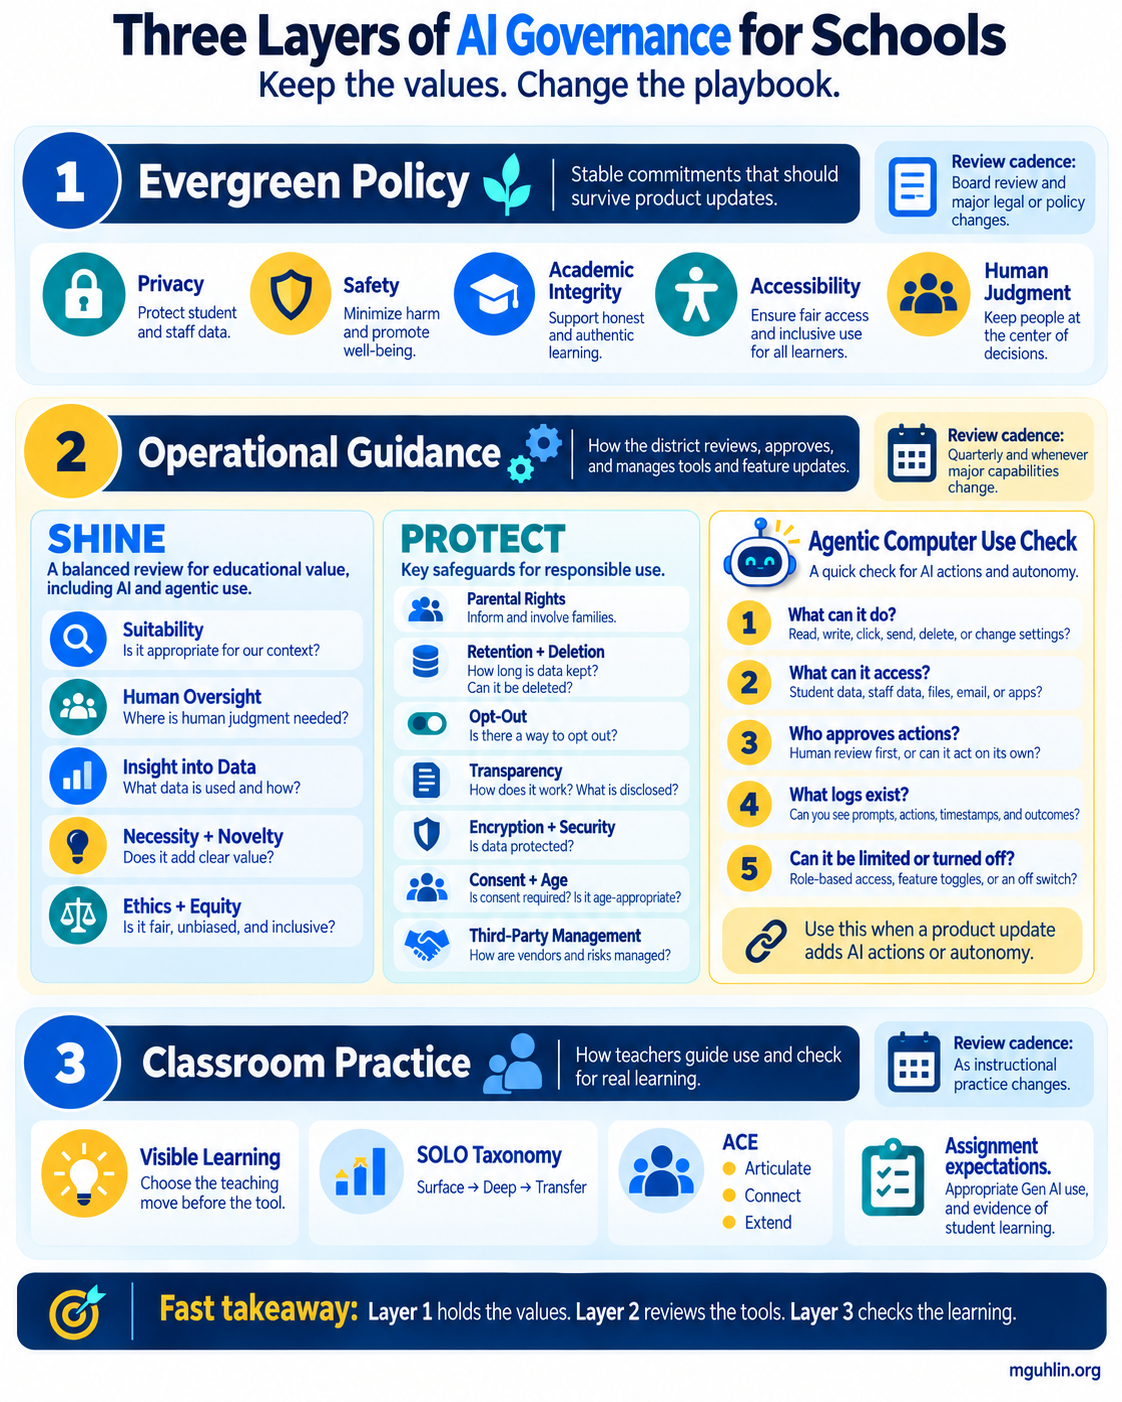
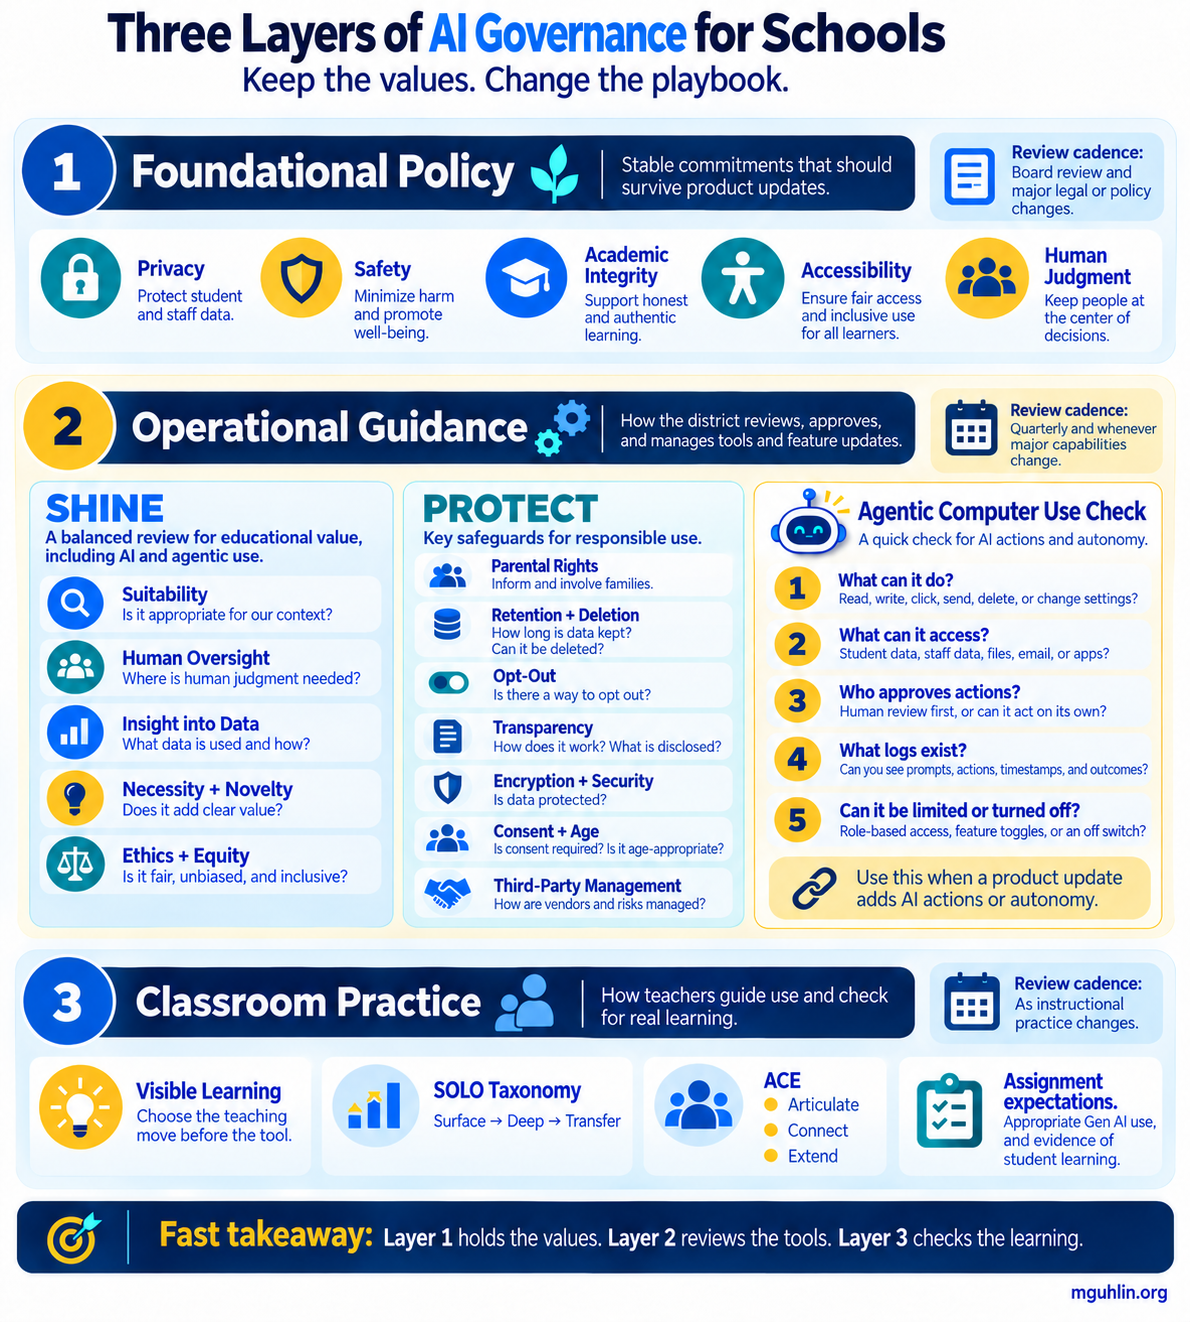
Update Three Layers infographic to v2 (Foundational Policy)

diff --git a/aipolicy/index.html b/aipolicy/index.html
@@ -119,7 +119,7 @@
 <section class="slide "><div class="slide-body infographic"><div class="ig-text"><div class="slide-kicker">One-page reference</div><h2 class="slide-title">The three layers, on a single page.</h2><p class="lead">The whole governance model at a glance — values that outlast updates, the tools that review change, and the checks that keep learning honest.</p>
 <ul class="bullets"><li><strong>Layer 1</strong> — Privacy, safety, integrity, accessibility, human judgment</li><li><strong>Layer 2</strong> — SHINE · PROTECT · the Agentic Use Check</li><li><strong>Layer 3</strong> — Visible Learning · SOLO · ACE</li></ul>
 <div class="next-step"><span class="ns-label">Hand-out</span><a href="three-layers-infographic.png" target="_blank" rel="noopener noreferrer">Open full size <span class="arrow">↗</span></a></div></div>
-<div class="ig-figure"><a href="three-layers-infographic.png" target="_blank" rel="noopener noreferrer"><img src="three-layers-infographic.png" alt="Three Layers of AI Governance for Schools infographic: Layer 1 Evergreen Policy, Layer 2 Operational Guidance with SHINE, PROTECT, and the Agentic Computer Use Check, and Layer 3 Classroom Practice with Visible Learning, SOLO, and ACE, each with its own review cadence."></a></div></div><div class="slide-footer"><span class="brand"><span class="star">✦</span> AI Policies That Don’t Expire</span><span class="fac">J. Miguel Guhlin · TCEA</span><span class="url">mguhlin.org</span></div><div class="notes"><p>This is the same three-layer architecture as the previous slide, drawn as a one-page reference you can share with a board, a cabinet, or a campus leadership team. "Keep the values. Change the playbook." Layer 1 holds the evergreen commitments and changes only on board review or a major legal shift. Layer 2 is where SHINE, PROTECT, and the Agentic Computer Use Check live, reviewed quarterly and whenever capabilities change. Layer 3 is classroom practice — Visible Learning, SOLO, and ACE — updated as instruction evolves. If you take one image away from today, take this one: it tells anyone in the district which questions apply to their role without reading the whole policy.</p></div></section>
+<div class="ig-figure"><a href="three-layers-infographic.png" target="_blank" rel="noopener noreferrer"><img src="three-layers-infographic.png" alt="Three Layers of AI Governance for Schools infographic: Layer 1 Foundational Policy, Layer 2 Operational Guidance with SHINE, PROTECT, and the Agentic Computer Use Check, and Layer 3 Classroom Practice with Visible Learning, SOLO, and ACE, each with its own review cadence."></a></div></div><div class="slide-footer"><span class="brand"><span class="star">✦</span> AI Policies That Don’t Expire</span><span class="fac">J. Miguel Guhlin · TCEA</span><span class="url">mguhlin.org</span></div><div class="notes"><p>This is the same three-layer architecture as the previous slide, drawn as a one-page reference you can share with a board, a cabinet, or a campus leadership team. "Keep the values. Change the playbook." Layer 1 holds the evergreen commitments and changes only on board review or a major legal shift. Layer 2 is where SHINE, PROTECT, and the Agentic Computer Use Check live, reviewed quarterly and whenever capabilities change. Layer 3 is classroom practice — Visible Learning, SOLO, and ACE — updated as instruction evolves. If you take one image away from today, take this one: it tells anyone in the district which questions apply to their role without reading the whole policy.</p></div></section>
 
 <section class="slide "><div class="slide-body"><div class="slide-kicker">Organizational context</div><h2 class="slide-title">Know your phase before moving ahead.</h2><p class="lead">The Five Phases describe progress across policy, accounts, guidance, curriculum, and outreach.</p>
 <div class="phase-flow"><div class="phase p1"><b>01</b><span>AI Secured</span></div><div class="phase p2"><b>02</b><span>Exploration</span></div><div class="phase p3"><b>03</b><span>Pilot Programs</span></div><div class="phase p4"><b>04</b><span>Unification</span></div><div class="phase p5"><b>05</b><span>AI Everywhere</span></div></div>
